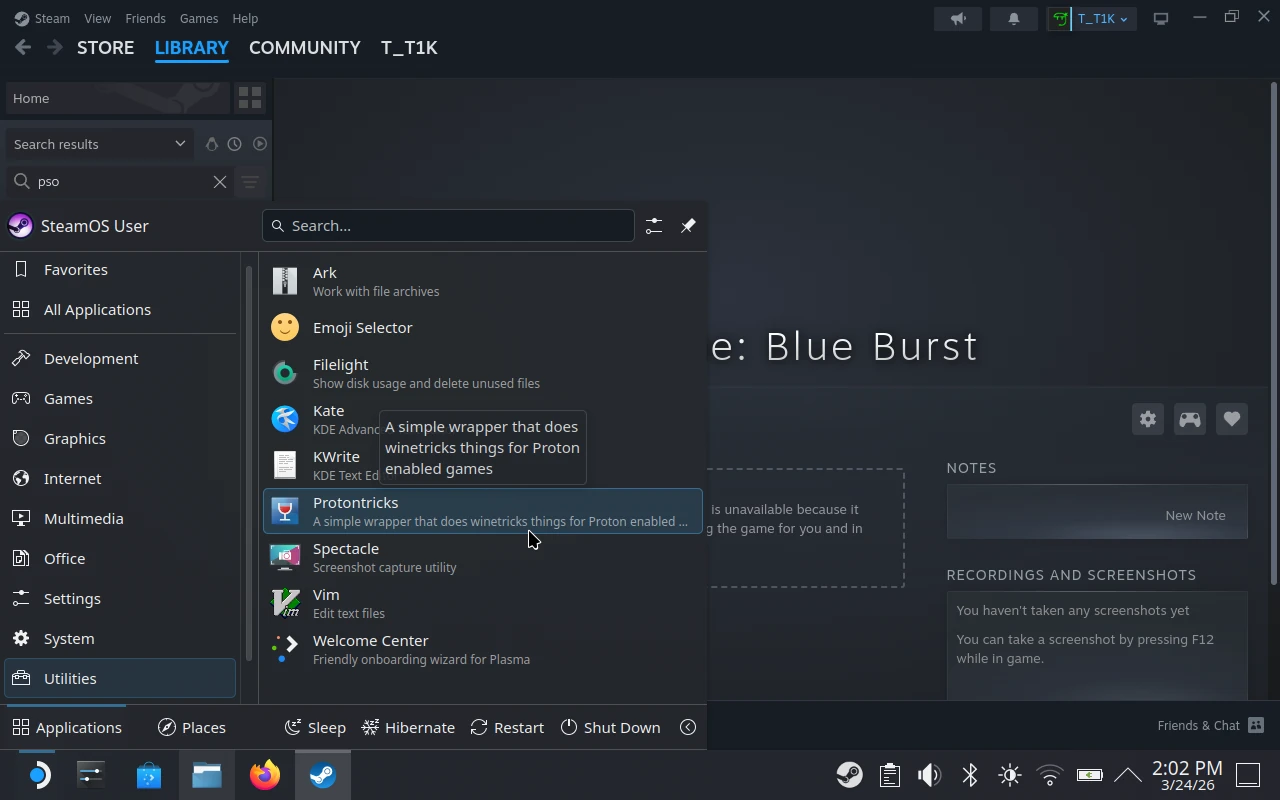
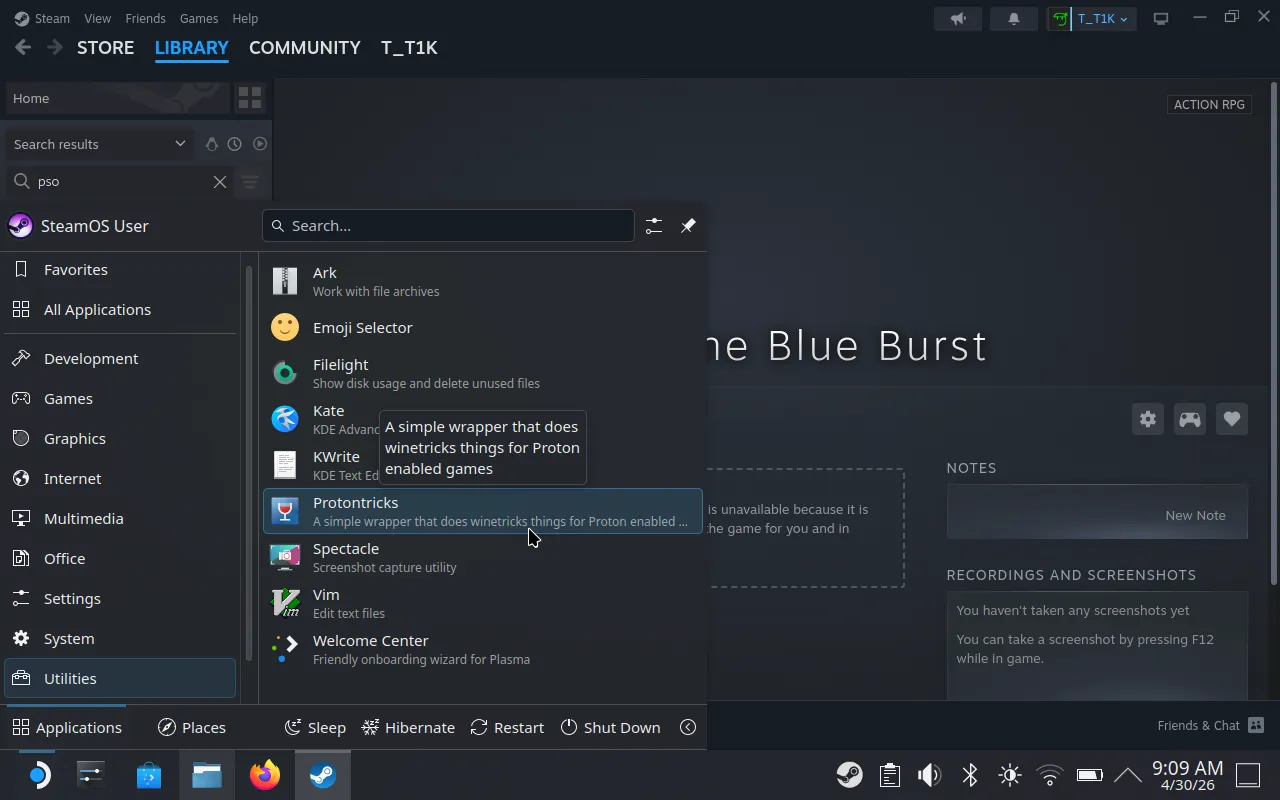
Rename "Phantasy Star Online: Blue Burst" to "Phantasy Star Online Blue Burst"

diff --git a/docs/_guides/ephinea-steam-deck-setup.md b/docs/_guides/ephinea-steam-deck-setup.md
@@ -10,7 +10,7 @@ description: "Step-by-step guide to running Ephinea PSO on Steam Deck with all a
 Ephinea Steam Deck Setup
 ========================
 
-[Ephinea Phantasy Star Online: Blue Burst](https://ephinea.pioneer2.net){:target="_blank"} runs on Steam Deck, but some additional configuration is needed compared with Windows. This step-by-step guide shows you how to run Ephinea on a Steam Deck, enabling all action shortcuts and improving camera control.
+[Ephinea Phantasy Star Online Blue Burst](https://ephinea.pioneer2.net){:target="_blank"} runs on Steam Deck, but some additional configuration is needed compared with Windows. This step-by-step guide shows you how to run Ephinea on a Steam Deck, enabling all action shortcuts and improving camera control.
 
 <div class="contents" markdown="1">
 
@@ -87,9 +87,9 @@ Now we’ll point Steam to the installed game instead of the installer.
 6. Right-click `online.exe` → **Copy Location**.
 7. Open Steam and find the installer entry in your library.
 8. Click **Manage** → **Properties** → **Shortcut**.
-9. Paste into **TARGET**, with quotes (e.g. `"/home/deck/.local/share/Steam/steamapps/compatdata/3535824940/pfx/drive_c/EphineaPSO/online.exe"`).
-10. Paste into **START IN**, without quotes or a filename (e.g. `/home/deck/.local/share/Steam/steamapps/compatdata/3535824940/pfx/drive_c/EphineaPSO/`).
-11. Rename the shortcut to **Phantasy Star Online: Blue Burst**.
+9. Paste into **TARGET**, with quotes (e.g. `"/home/deck/.local/share/Steam/steamapps/compatdata/3954759615/pfx/drive_c/EphineaPSO/online.exe"`).
+10. Paste into **START IN**, without quotes or a filename (e.g. `/home/deck/.local/share/Steam/steamapps/compatdata/3954759615/pfx/drive_c/EphineaPSO/`).
+11. Rename the shortcut to **Phantasy Star Online Blue Burst**.
 
 > Tip: Use Dolphin's **Copy Location** to avoid typos when entering paths.
 
@@ -108,7 +108,7 @@ By default, Proton uses Windows 10 mode, but Ephinea works more reliably with Wi
 1. Open **Discover Software Center**.
 2. Search for and install **Protontricks**.
 3. Open **Protontricks**.
-4. Select **Phantasy Star Online: Blue Burst**.
+4. Select **Phantasy Star Online Blue Burst**.
 5. Select **default wineprefix**.
 6. Select **Run winecfg**.
 7. Set **Windows Version** to **Windows 7**, then click **Apply**.
@@ -130,7 +130,7 @@ Restart your Steam Deck into *Gaming Mode* and launch the game from your library
 [![Finished - Play](/assets/images/guides/ephinea-steam-deck-setup/finished/play.webp)](/assets/images/guides/ephinea-steam-deck-setup/finished/play.webp){:target="_blank"}
 [![Finished - Launcher](/assets/images/guides/ephinea-steam-deck-setup/finished/launcher.webp)](/assets/images/guides/ephinea-steam-deck-setup/finished/launcher.webp){:target="_blank"}
 [![Finished - Sonic Team](/assets/images/guides/ephinea-steam-deck-setup/finished/sonic-team.webp)](/assets/images/guides/ephinea-steam-deck-setup/finished/sonic-team.webp){:target="_blank"}
-[![Finished - Phantasy Star Online: Blue Burst](/assets/images/guides/ephinea-steam-deck-setup/finished/pso-bb.webp)](/assets/images/guides/ephinea-steam-deck-setup/finished/pso-bb.webp){:target="_blank"}
+[![Finished - Phantasy Star Online Blue Burst](/assets/images/guides/ephinea-steam-deck-setup/finished/pso-bb.webp)](/assets/images/guides/ephinea-steam-deck-setup/finished/pso-bb.webp){:target="_blank"}
 
 ---
 

diff --git a/docs/_guides/ephinea-gamepad-setup.md b/docs/_guides/ephinea-gamepad-setup.md
@@ -10,7 +10,7 @@ description: "Step-by-step guide to setting up a gamepad for Ephinea PSO with al
 Ephinea Gamepad Setup
 =====================
 
-[Ephinea Phantasy Star Online: Blue Burst](https://ephinea.pioneer2.net){:target="_blank"} supports gamepads, but some additional configuration is needed to make them fully functional. This step-by-step guide shows you how to set up a gamepad for Ephinea, enabling all action shortcuts and improving camera control.
+[Ephinea Phantasy Star Online Blue Burst](https://ephinea.pioneer2.net){:target="_blank"} supports gamepads, but some additional configuration is needed to make them fully functional. This step-by-step guide shows you how to set up a gamepad for Ephinea, enabling all action shortcuts and improving camera control.
 
 <div class="contents" markdown="1">
 
@@ -116,7 +116,7 @@ Adding PSO to Steam allows you to use Steam Input to map your gamepad to keyboar
 3. Select `online.exe`.
 4. Find the new entry in your library.
 5. Click **Manage** → **Properties**.
-6. Rename the shortcut to **Phantasy Star Online: Blue Burst**.
+6. Rename the shortcut to **Phantasy Star Online Blue Burst**.
 
 [![Add PSO to Steam - Add a Non-Steam Game](/assets/images/guides/ephinea-gamepad-setup/add-pso-to-steam/add-a-non-steam-game.webp)](/assets/images/guides/ephinea-gamepad-setup/add-pso-to-steam/add-a-non-steam-game.webp){:target="_blank"}
 [![Add PSO to Steam - Properties](/assets/images/guides/ephinea-gamepad-setup/add-pso-to-steam/properties.webp)](/assets/images/guides/ephinea-gamepad-setup/add-pso-to-steam/properties.webp){:target="_blank"}
@@ -150,7 +150,7 @@ Apply the **Ephinea - All Action Shortcuts** community layout instead of creatin
 4. Click **Ephinea - All Action Shortcuts**.
 5. Click **Apply Layout**.
 
-> Tip: If you can't find the community button layout on Steam, make sure the shortcut is named **Phantasy Star Online: Blue Burst** as shown in Step 1. If you still can't find it, ask for help on our Discord or the Forums.
+> Tip: If you can't find the community button layout on Steam, make sure the shortcut is named **Phantasy Star Online Blue Burst** as shown in Step 1. If you still can't find it, ask for help on our Discord or the Forums.
 
 [![Apply a Steam Button Layout - Layouts](/assets/images/guides/ephinea-gamepad-setup/apply-a-steam-button-layout/layouts.webp)](/assets/images/guides/ephinea-gamepad-setup/apply-a-steam-button-layout/layouts.webp){:target="_blank"}
 [![Apply a Steam Button Layout - Community Layouts](/assets/images/guides/ephinea-gamepad-setup/apply-a-steam-button-layout/community-layouts.webp)](/assets/images/guides/ephinea-gamepad-setup/apply-a-steam-button-layout/community-layouts.webp){:target="_blank"}
@@ -247,7 +247,7 @@ Yes. The guide uses an Xbox Series X/S controller as an example. Steam Deck and 
 
 ### I can't find the community button layout on Steam
 
-Make sure the shortcut is named **Phantasy Star Online: Blue Burst** as shown in Step 1. If you still can't find it, ask for help on our Discord or the Forums.
+Make sure the shortcut is named **Phantasy Star Online Blue Burst** as shown in Step 1. If you still can't find it, ask for help on our Discord or the Forums.
 
 ### I get the error "XInput support requires Windows 8 or greater. XInput will be disabled."
 

diff --git a/docs/_guides/ephinea-font-setup.md b/docs/_guides/ephinea-font-setup.md
@@ -10,7 +10,7 @@ description: "Step-by-step guide to changing the Ephinea PSO in-game text to bet
 Ephinea Font Setup
 ==================
 
-[Ephinea Phantasy Star Online: Blue Burst](https://ephinea.pioneer2.net){:target="_blank"} uses **Tahoma** as the default in-game font, but also includes two additional fonts: **Dotum** and **Gulim**. These can be used to make the in-game text better match the original GameCube release. However, they need to be installed manually on your OS before selecting them in the launcher. This guide shows you where to find the fonts and how to install them on both Windows and Steam Deck.
+[Ephinea Phantasy Star Online Blue Burst](https://ephinea.pioneer2.net){:target="_blank"} uses **Tahoma** as the default in-game font, but also includes two additional fonts: **Dotum** and **Gulim**. These can be used to make the in-game text better match the original GameCube release. However, they need to be installed manually on your OS before selecting them in the launcher. This guide shows you where to find the fonts and how to install them on both Windows and Steam Deck.
 
 <div class="contents" markdown="1">
 
